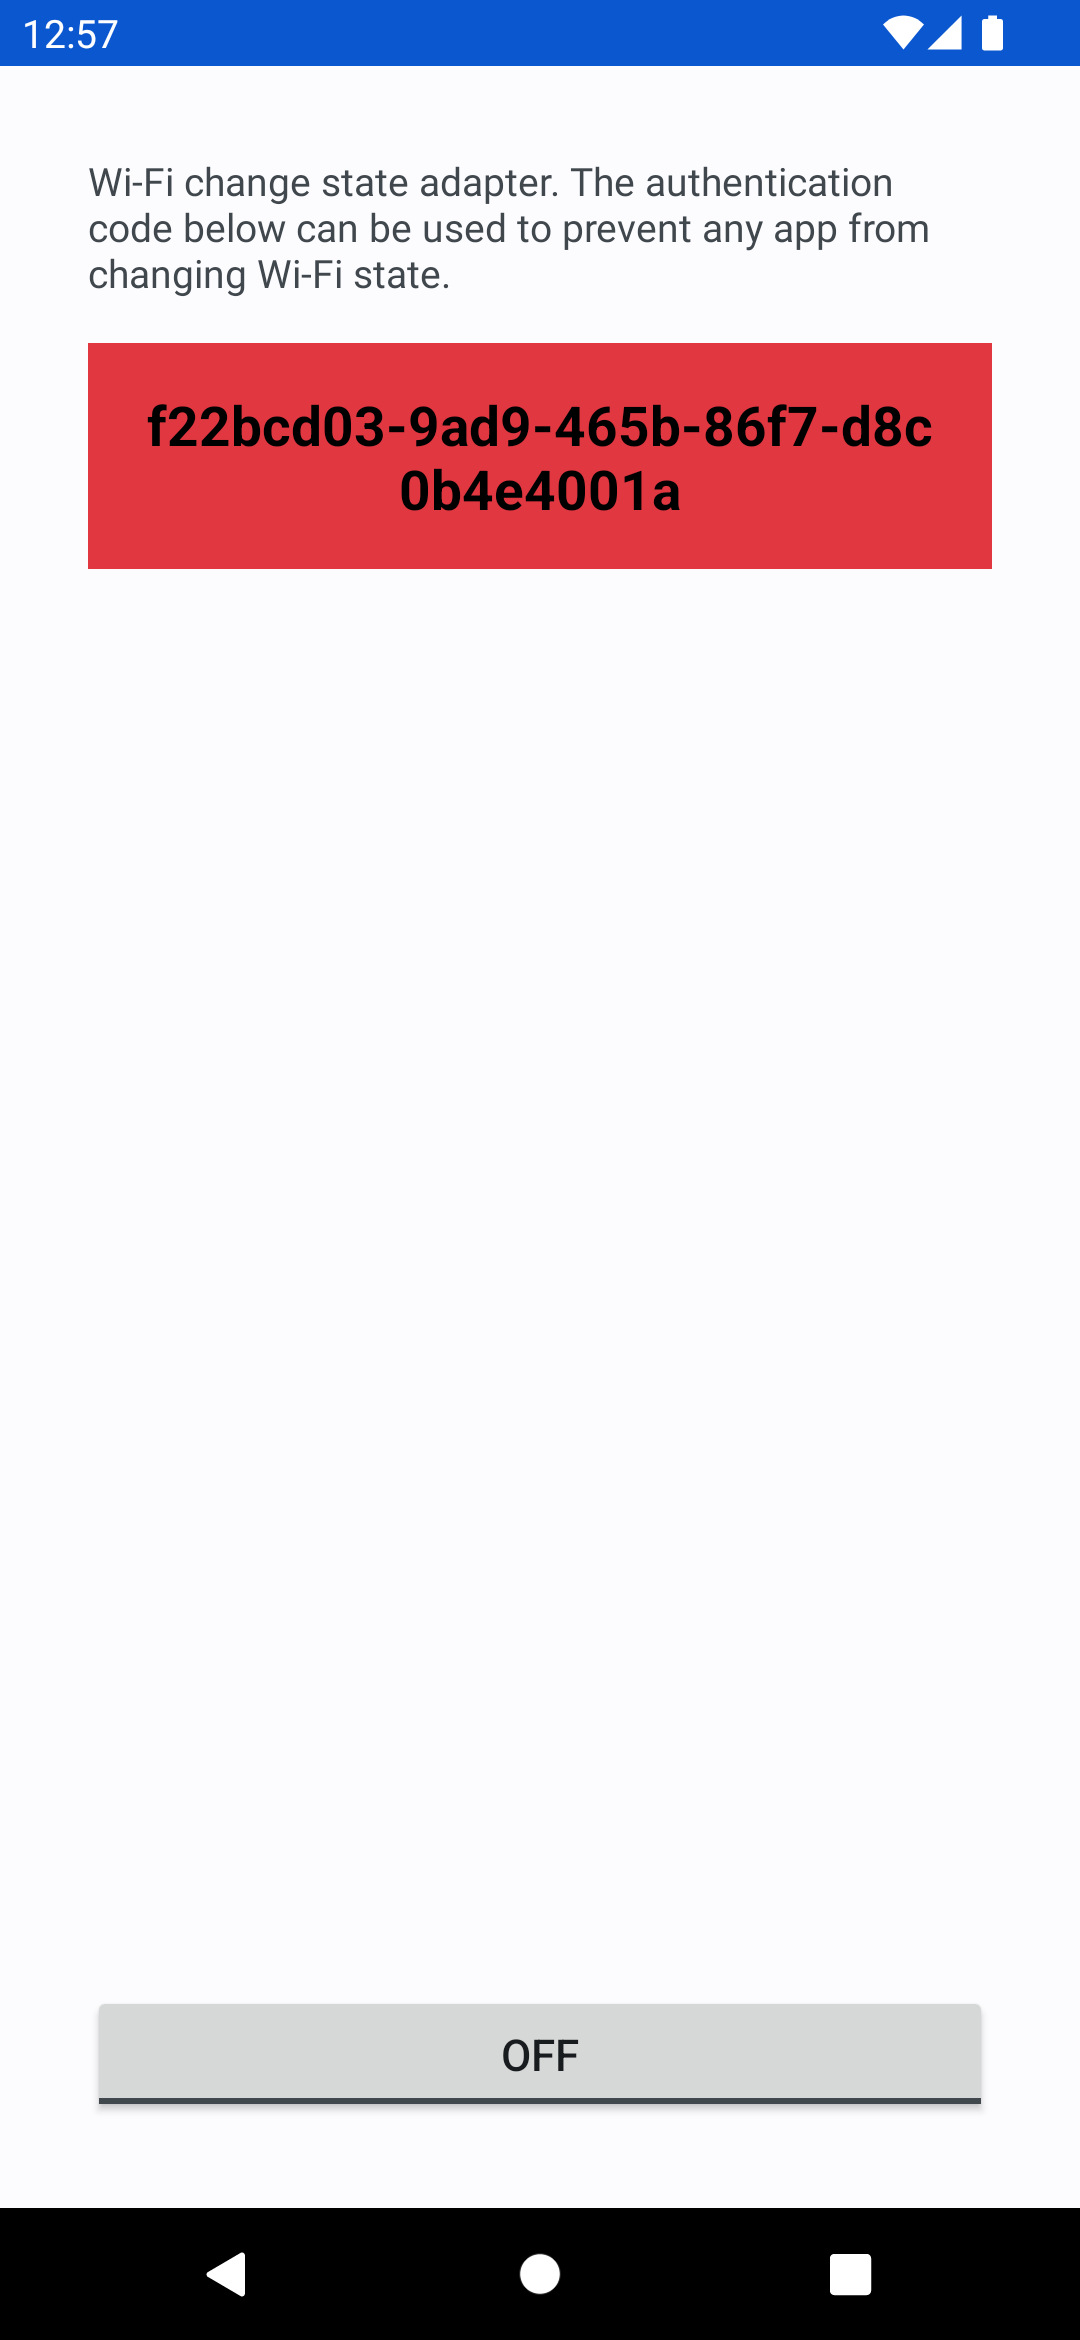
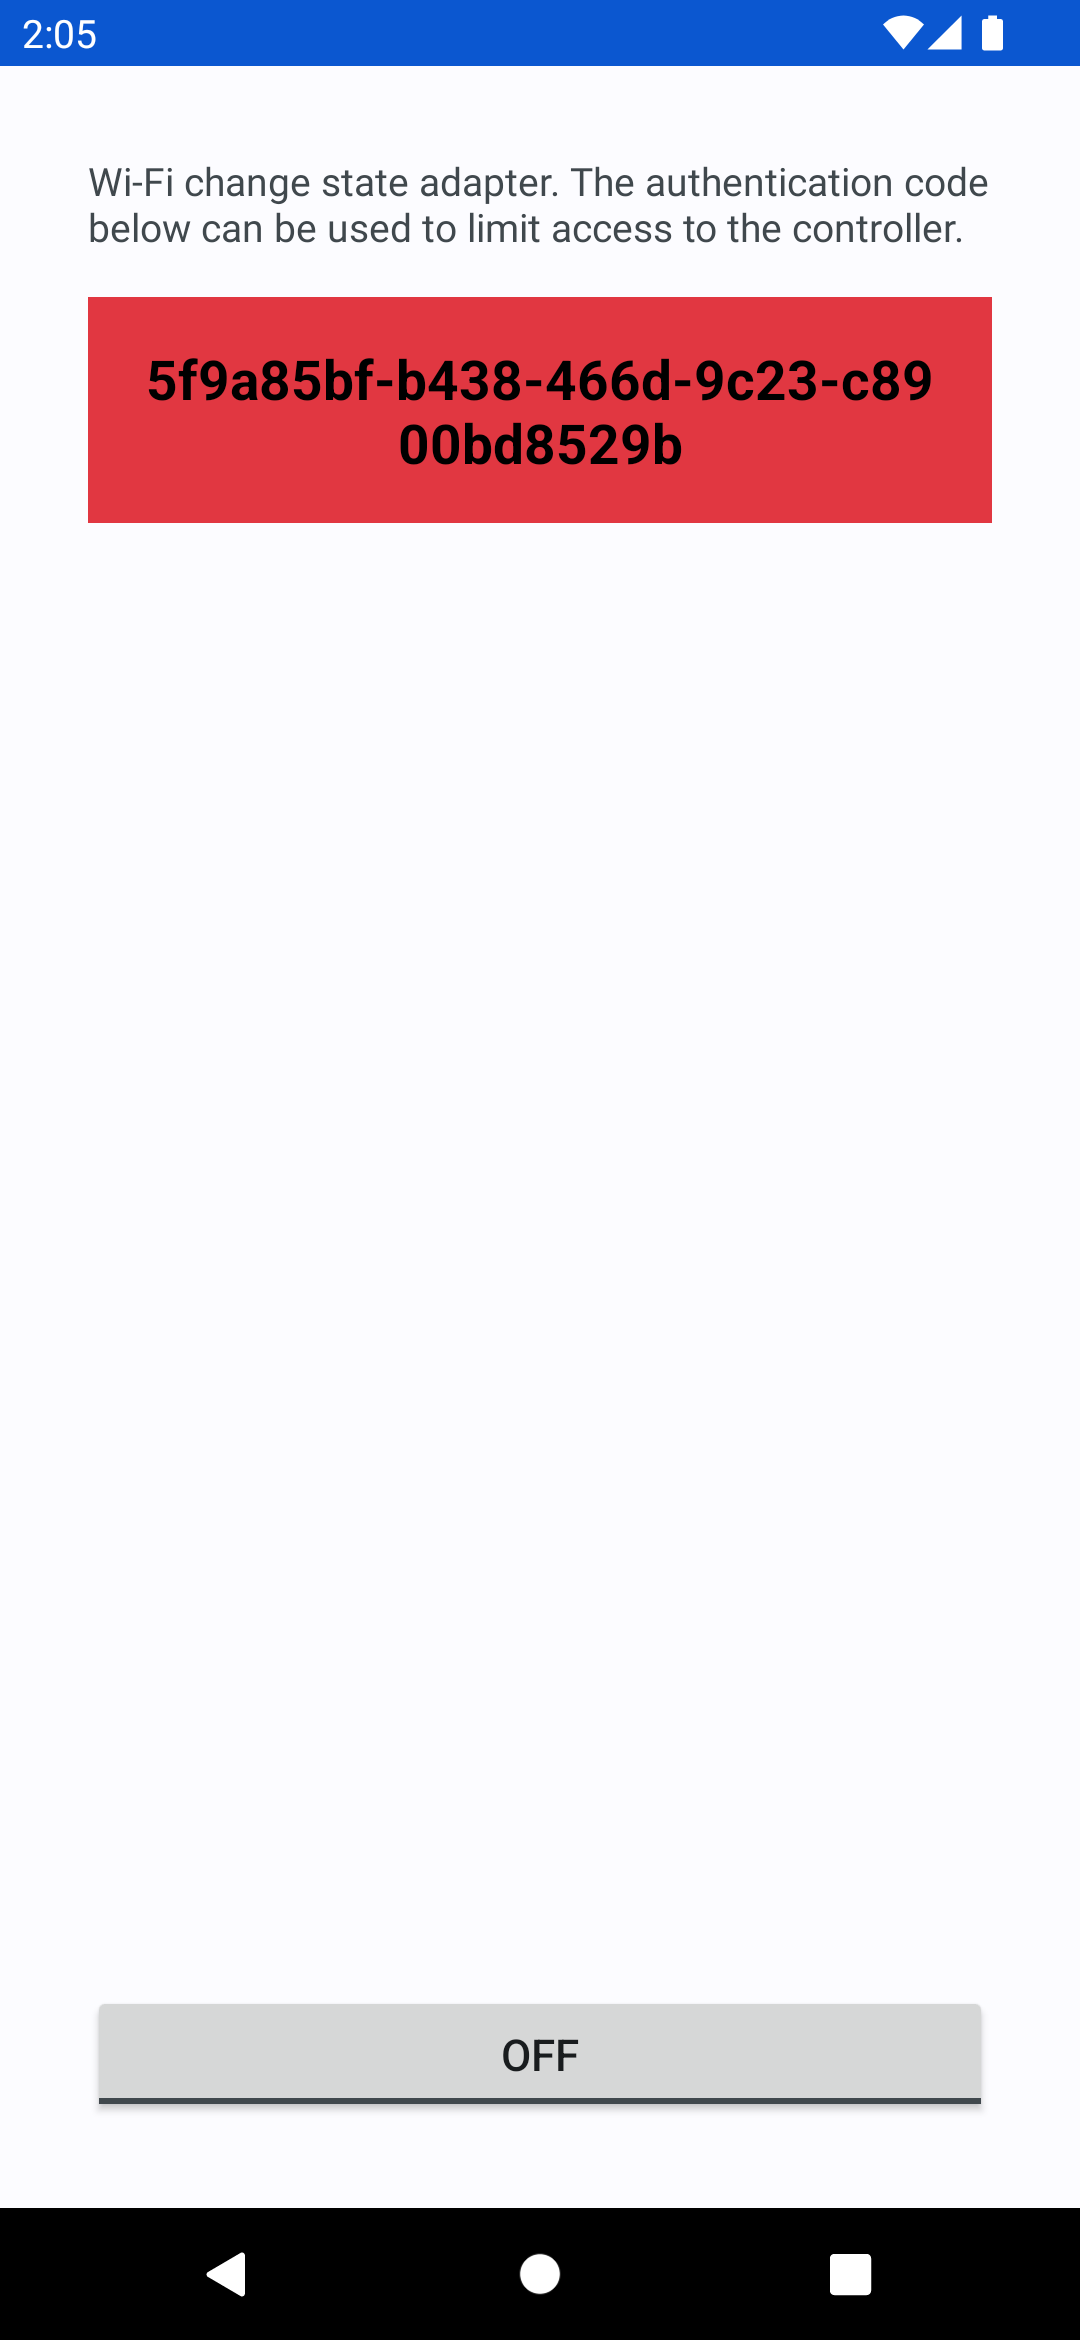
update descriptions

Changed region(s): [[0.0611, 0.0624, 0.9167, 0.2496], [0.0306, 0.0, 0.0611, 0.0312]]

diff --git a/README.md b/README.md
@@ -2,13 +2,10 @@
 
 Wi-Fi change state adapter.
 
-[comment]: <> ([<img)
-
-[comment]: <> (     src="https://fdroid.gitlab.io/artwork/badge/get-it-on.png")
-
-[comment]: <> (     alt="Get it on F-Droid")
-
-[comment]: <> (     height="80">]&#40;https://f-droid.org/packages/me.lucky.wyfy/&#41;)
+[<img
+     src="https://fdroid.gitlab.io/artwork/badge/get-it-on.png"
+     alt="Get it on F-Droid"
+     height="80">](https://f-droid.org/packages/me.lucky.wyfy/)
 
 <img 
      src="https://raw.githubusercontent.com/x13a/WyFy/main/fastlane/metadata/android/en-US/images/phoneScreenshots/1.png" 
@@ -16,7 +13,15 @@ Wi-Fi change state adapter.
      height="30%">
 
 Tiny app to change Wi-Fi state via broadcast. 
-Useful to bypass Google limitation on Android 10 and newer.
+Useful to bypass Google limitation on apps targeting `API 29` and higher.
+
+After toggling it ON, to change Wi-Fi state you have to send broadcast to 
+`me.lucky.wyfy/.ControlReceiver` with the action below. Also you may require code authentication to 
+limit access to controller by clicking on the code block (red - disabled, yellow - enabled). While 
+authentication enabled you have to send this code in broadcast extra with the key `code`.
+
+Broadcasts can be sent with Key Mapper, apps for automation like Automate/Tasker/MacroDroid and so 
+on.
 
 Actions:
 * me.lucky.wyfy.action.SET_ON
